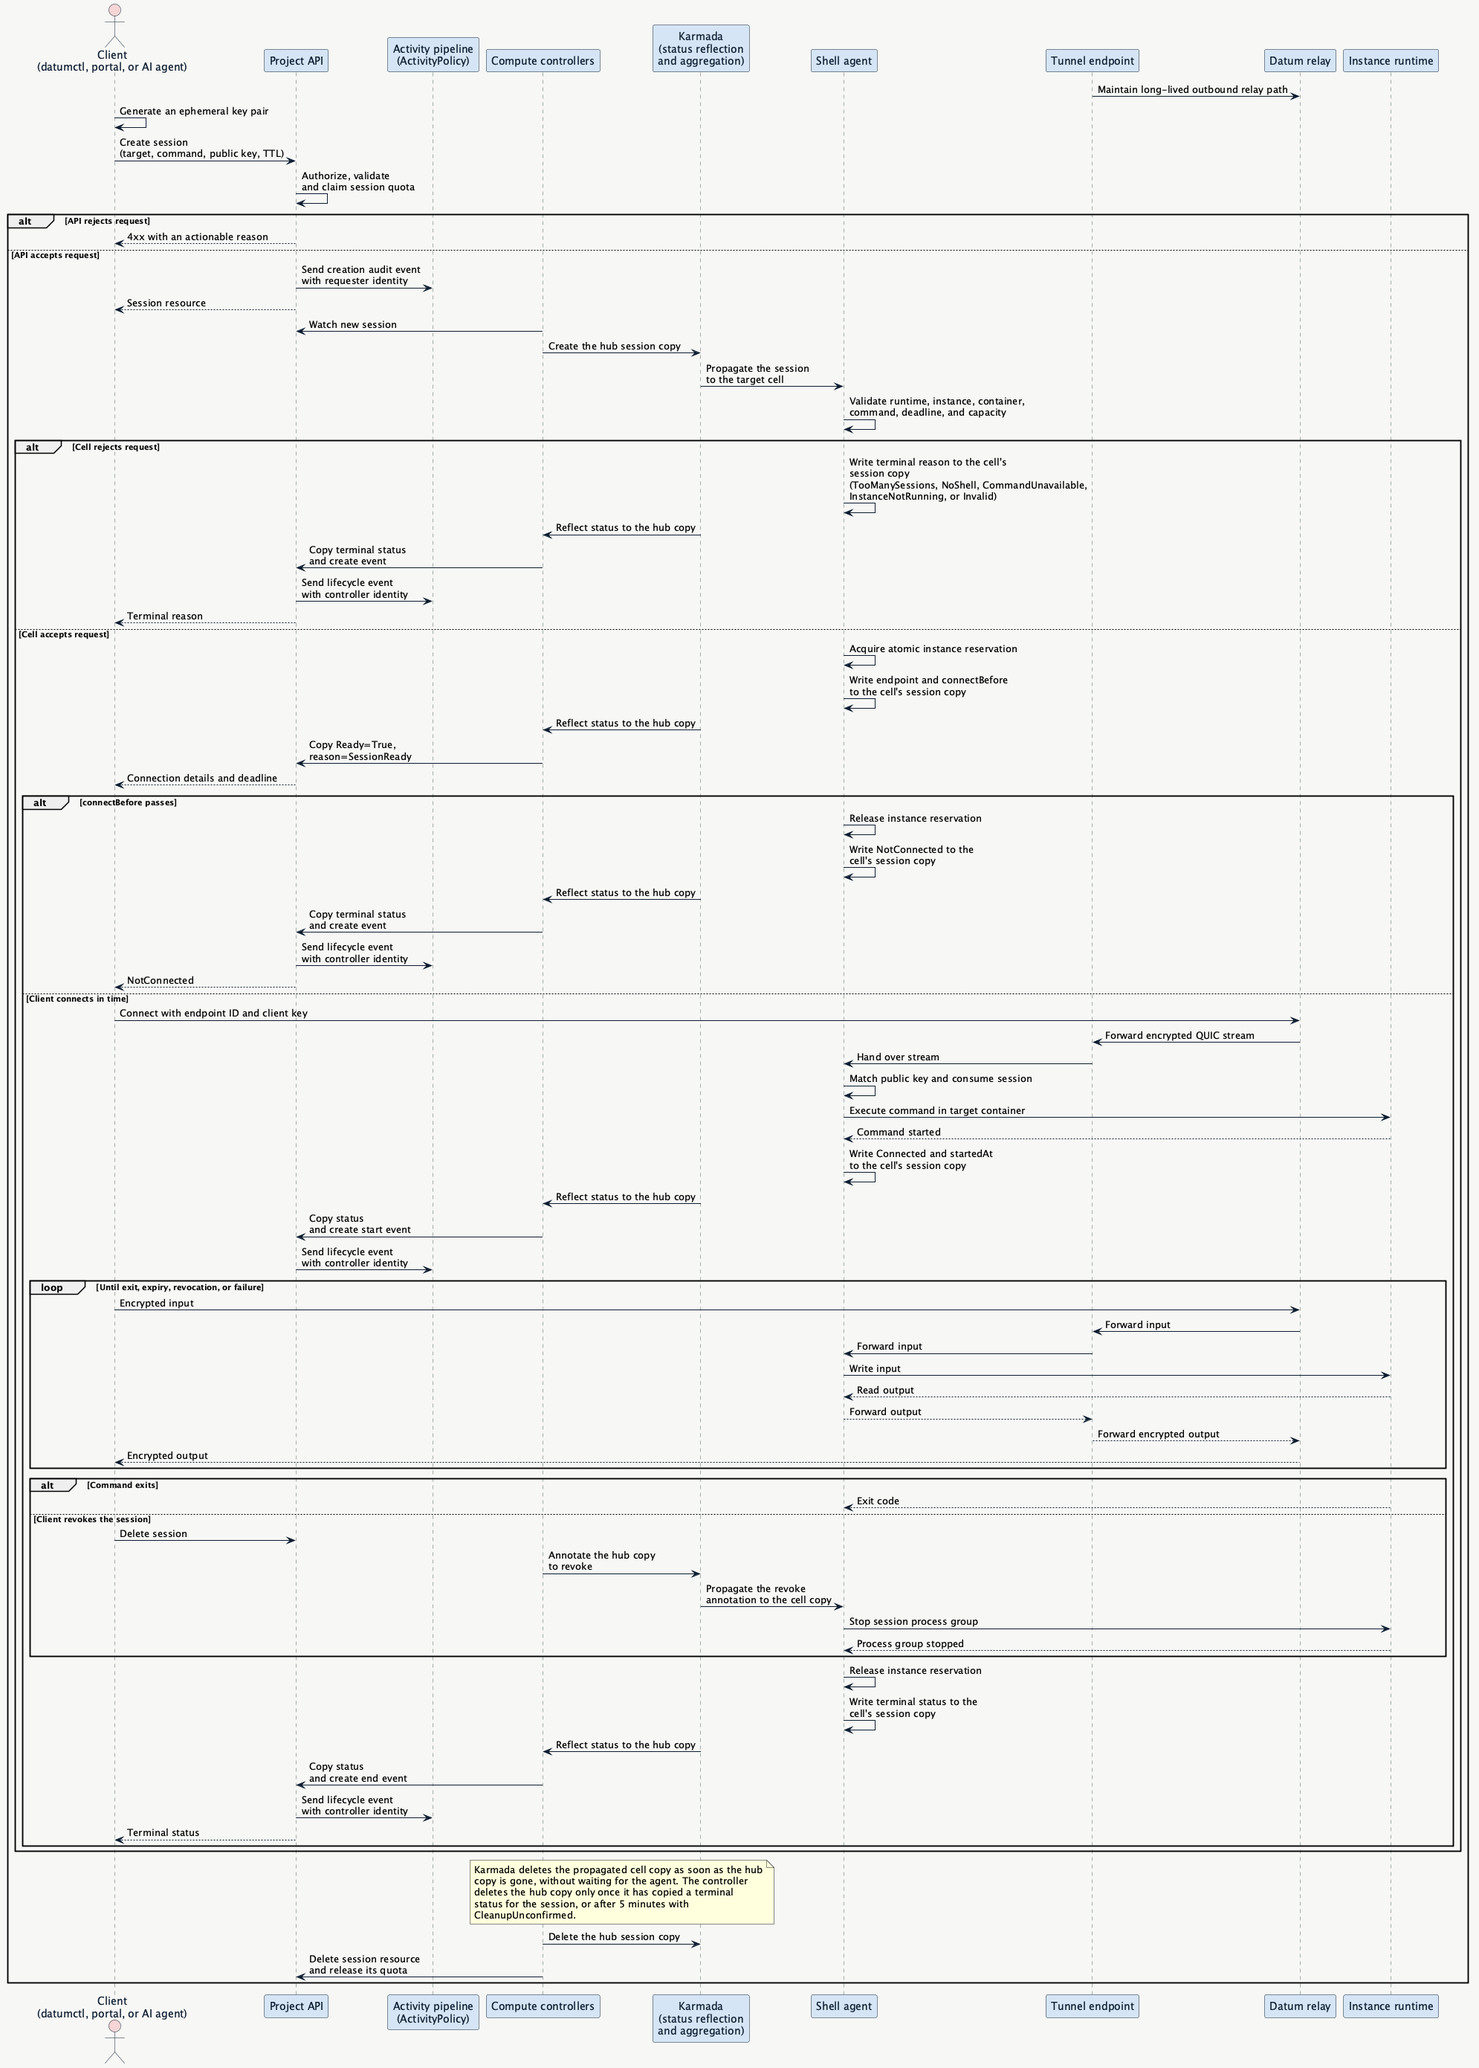
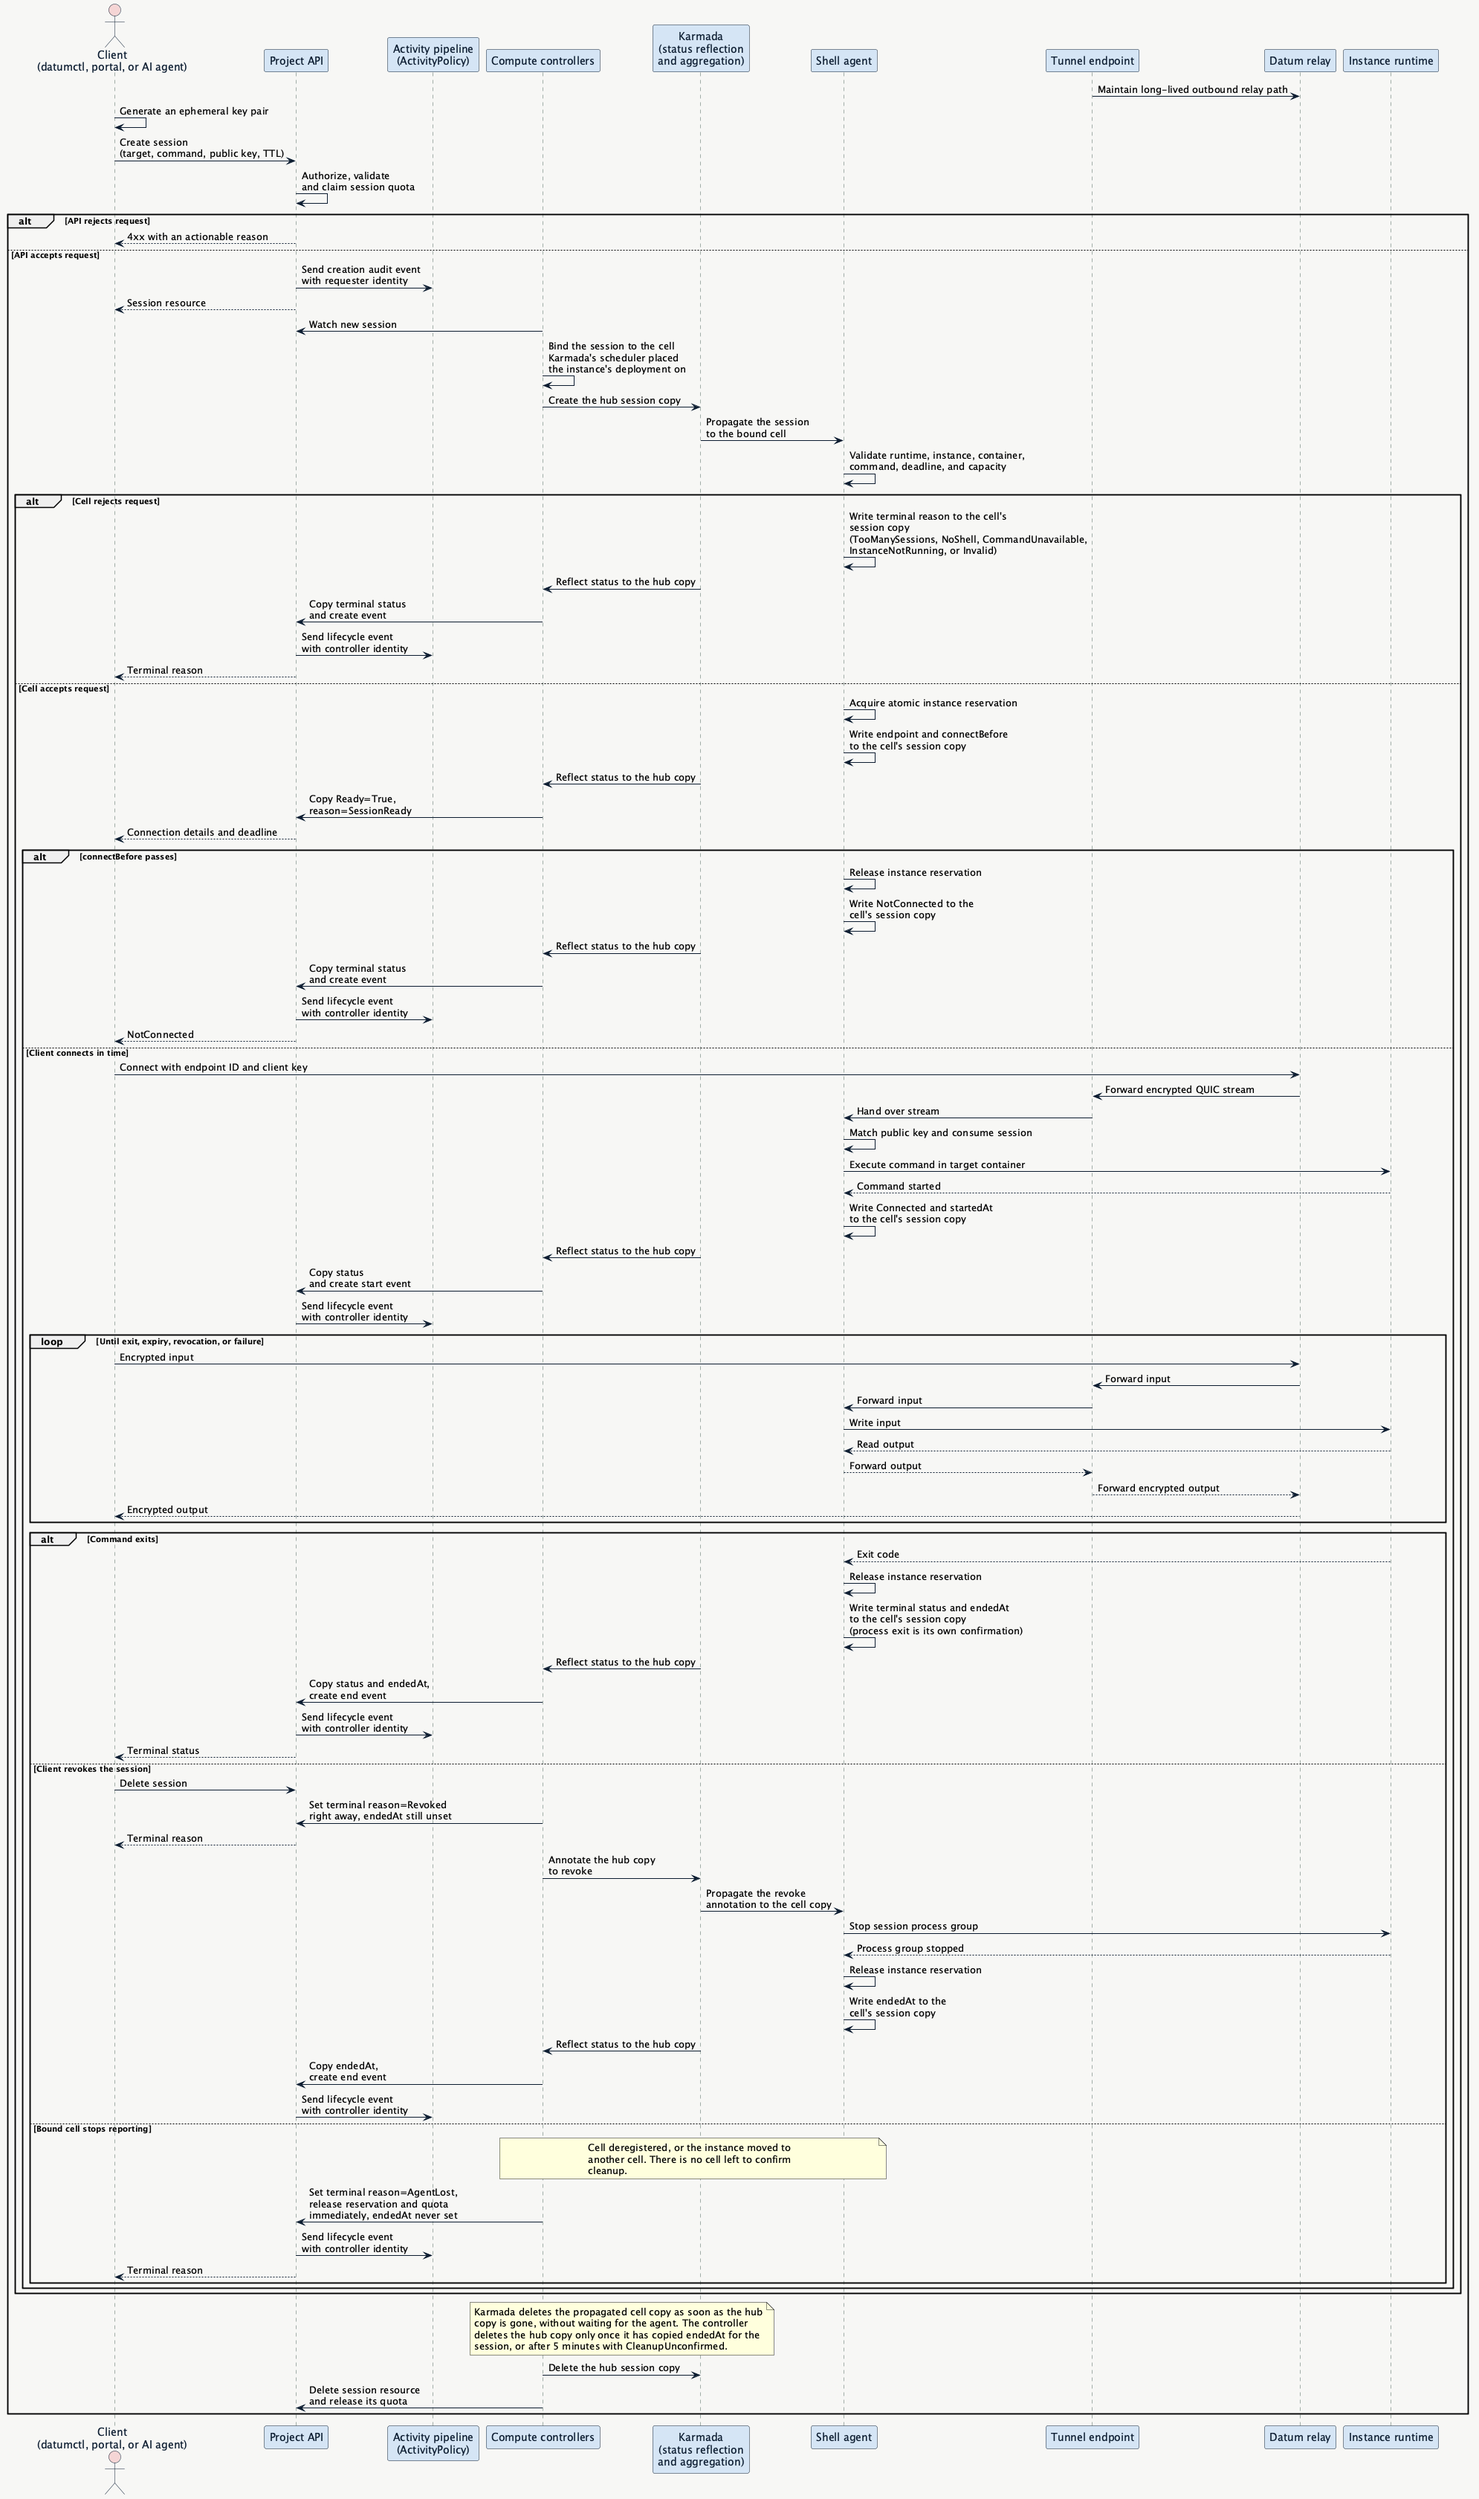
docs: bind instance shell sessions to their scheduler-placed cell
Address review fixes for the hub-access rework. The control plane now
binds a session to the one cell Karmada's scheduler placed the
instance's deployment on, taken from that placement rather than from
anything a cell writes, and ignores status from any other cell. This
narrows the residual trust: a compromised cell can only affect
sessions for instances it actually runs.

Key changes:
- Trusted cell replaces the earlier "prefer the claiming cell"
  aggregation rule; a session's bound cell can't be replaced by a
  different endpoint once set
- AgentLost also covers a bound cell that stops reporting
  (deregistered, or the instance moved); the session ends and its
  reservation and quota release immediately, with no cleanup wait
  since there is no cell left to confirm it
- endedAt is now a separate, honest signal set only once the agent
  confirms its processes stopped; the terminal reason is still
  reported to the client right away on revoke
- Replace the local-prototype latency numbers with real
  Kata-under-Karmada measurements (0.14-0.26s to Ready) and confirmed
  cleanup of background and disowned jobs on revoke, disconnect and
  expiry
- Re-render the sequence diagram for the trusted-cell binding and the
  split terminal-reason/endedAt reporting on revoke and lost-cell

diff --git a/docs/enhancements/instance-shell-sessions/README.md b/docs/enhancements/instance-shell-sessions/README.md
@@ -109,9 +109,10 @@ agent writes session status to its own cell's copy only. Karmada's status
 sync, the same reflection and aggregation compute already uses for
 `WorkloadDeployment`, carries that status to the hub copy without the agent
 holding hub credentials or making a hub call. The compute controllers copy
-status from the hub to the project's session. A local prototype measured
-status reaching the project in under 0.5 seconds and a revoke completing in
-about 1.2 seconds.
+status from the hub to the project's session. Measured on real Kata cells
+running under Karmada, a session reaches `Ready` in 0.14–0.26 seconds. Revoke,
+client disconnect and expiry all killed background and disowned jobs in every
+run.
 
 ![C4 container diagram](./c4-container-diagram.png)
 
@@ -232,6 +233,11 @@ status:
   # Set when the command starts and calculated as startedAt plus spec.ttl.
   # startedAt: "2026-09-29T18:00:10Z"
   # expiresAt: "2026-09-29T18:15:10Z"
+
+  # Set only once the platform confirms every process the session started has
+  # stopped, not when the terminal reason first appears. A revoked or
+  # lost-cell session can show its terminal reason before this is set, or
+  # never get one at all if cleanup goes unconfirmed.
   # endedAt: "2026-09-29T18:04:32Z"
 
   # Set only when the runtime reports a normal process exit. datumctl returns
@@ -258,19 +264,25 @@ one immutable terminal state. Terminal reasons are `Completed`, `Expired`,
 `Invalid`, `Unavailable` and `Disconnected`. `Unavailable` ends a session that
 no cell takes within 30 seconds. `Disconnected` ends a session whose client
 went away before the command exited; the agent notices within 20 seconds. The client uses the condition reason to distinguish a session
-waiting for a connection from one whose command is running.
+waiting for a connection from one whose command is running. `AgentLost` also
+covers a session whose bound cell stops reporting altogether — deregistered,
+or the instance moved to another cell. That session ends and its reservation
+and quota are released immediately: there is no cell left to ask for cleanup,
+so the five-minute confirmation wait described below does not apply.
 
-Deleting an active session revokes it. A finalizer annotates the hub copy to
-ask the cell to revoke the session, then waits up to five minutes for the
-agent to stop the process, release its reservation and report the session
-ended. Only then does the controller delete the hub copy; Karmada deletes the
-propagated cell copy as soon as the hub copy is gone, without waiting for the
-agent to finish cleanup, so the controller cannot delete the hub copy first
-and confirm cleanup after. If the agent does not report the session ended
-within five minutes, the controller records `CleanupUnconfirmed`, deletes the
-hub copy anyway and removes the finalizer; it never reports cleanup as
-confirmed. This cleanup outcome is a lifecycle event, not a replacement for
-the immutable terminal reason.
+Deleting an active session revokes it. The controller sets the terminal
+reason right away so the client learns the outcome without waiting on the
+cell, then annotates the hub copy to ask the cell to revoke the session.
+`endedAt` is a separate, honest signal: it is set only once the agent
+confirms the process group has stopped, not when the terminal reason first
+appears. A finalizer waits up to five minutes for that confirmation before
+the controller deletes the hub copy; Karmada deletes the propagated cell copy
+as soon as the hub copy is gone, without waiting for the agent to finish
+cleanup, so the controller cannot delete the hub copy first and confirm
+cleanup after. If the agent does not confirm within five minutes, the
+controller records `CleanupUnconfirmed`, deletes the hub copy anyway and
+removes the finalizer without ever setting `endedAt`. This cleanup outcome is
+a lifecycle event, not a replacement for the immutable terminal reason.
 
 The controller deletes a session as soon as it reaches a terminal state and its
 end event is recorded, which releases its quota. A connected client receives
@@ -295,10 +307,11 @@ Audit records outlive the resource.
   status reflection and aggregation, the same mechanism compute already uses
   for `WorkloadDeployment`, copies that status to the hub. The compute
   controllers then copy it from the hub to the project's session.
-- **Picking between cells.** A session can be propagated to more than one
-  cell, the same way a `WorkloadDeployment` can be. When more than one cell
-  reports status, aggregation prefers the copy from the cell that claimed the
-  session over any other cell's copy.
+- **Trusted cell.** The control plane binds a session to the one cell
+  Karmada's scheduler placed the instance's deployment on, read from that
+  placement, not from anything a cell writes. Status from any other cell is
+  ignored, and once a session is bound, that binding can't be replaced by a
+  different endpoint.
 - **Audit record.** The Project API audit pipeline records session creation
   with the requesting user or service identity as the actor. The compute
   session controller emits start and end events, where the actor is the
@@ -315,9 +328,11 @@ Audit records outlive the resource.
   maintenance warns open shells and closes them at a deadline; an agent that
   crashes has its sessions ended and cleaned up by the other.
 
-A local prototype on a Kata cell proved this design end to end for
-general-purpose instances, including crash recovery, the per-instance limit,
-clean endings and network isolation. The unikernel path has not been exercised.
+A prototype on real Kata cells running under Karmada proved this design end to
+end for general-purpose instances, including status sync through Karmada,
+crash recovery, the per-instance limit, clean endings and network isolation;
+revoke, client disconnect and expiry killed background and disowned jobs in
+every run. The unikernel path has not been exercised.
 
 ### Decisions
 
@@ -341,8 +356,9 @@ clean endings and network isolation. The unikernel path has not been exercised.
   sessions routed to its location. Instead, the agent has no hub identity, no
   hub credentials and no hub egress at all; it only reads and writes its own
   cell's copy of the session, and Karmada's status sync carries that status to
-  the hub. There is nothing to leak, so the residual trust is narrower: a
-  cell's self-reported status is trusted for the sessions delivered to it.
+  the hub. There is nothing to leak, and the trusted-cell binding narrows the
+  residual trust further: a compromised cell can affect only sessions for the
+  instances it actually runs.
 - **First release:** general-purpose (Kata) instances only. The unikernel
   runtime class gets the `exec` feature, and its provider's exec policy is set
   to `always`, once staging has answered the open Unikraft questions. Until
@@ -430,6 +446,9 @@ creation, quota release, reservation release and agent failover.
 
 - 2026-09-29: Local prototype on a Kata cell, from the CLI and from a browser
   (Chromium and WebKit); this document drafted.
+- 2026-09-30: Prototype re-run on real Kata cells under Karmada, measuring
+  session-ready latency and confirming that revoke, disconnect and expiry all
+  kill background and disowned jobs.
 
 ## Drawbacks
 
@@ -461,9 +480,9 @@ creation, quota release, reservation release and agent failover.
 - A shell agent and tunnel endpoint deployed to each compute cell, with
   network policy limiting both.
 - Karmada status reflection and aggregation rules for `InstanceConsoleSession`,
-  including a rule that prefers the claiming cell's status when more than one
-  cell holds a copy, the same way `WorkloadDeployment` status is aggregated
-  today.
+  the same way `WorkloadDeployment` status is aggregated today, plus binding
+  each session to its scheduler-placed cell so status from any other cell is
+  ignored.
 - `exec` on the general-purpose runtime class; for unikernel instances later,
   `exec` on that class and the Unikraft provider exec policy set to `always`.
 - The session-create permission added to the default project-admin role.
